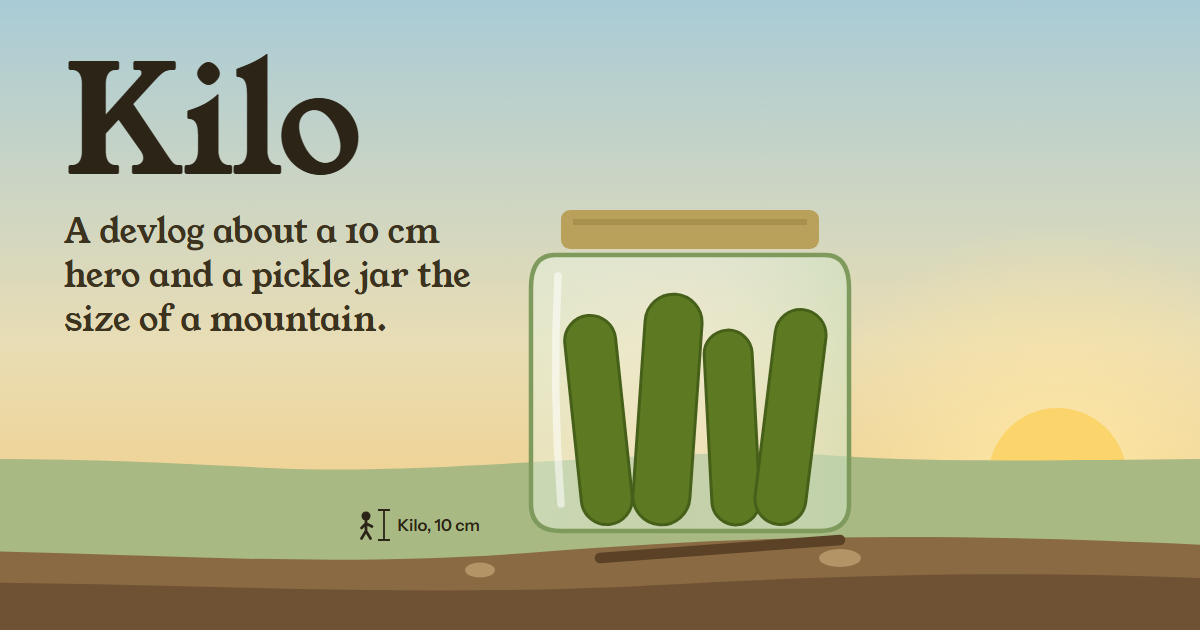
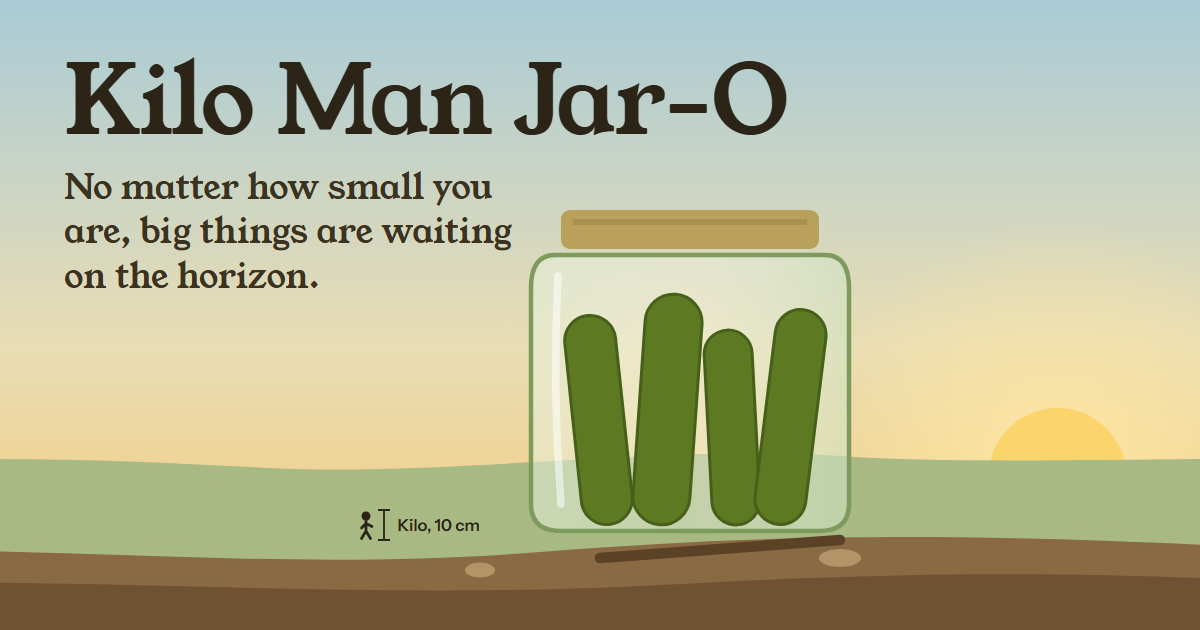
Use the working title Kilo Man Jar-O and carry the 'small hero, big horizon' theme

Changed region(s): [[0.0308, 0.0905, 0.6783, 0.5429]]

diff --git a/assets/css/kilo.css b/assets/css/kilo.css
@@ -59,14 +59,14 @@ a:hover { text-decoration-thickness: 2px; }
 }
 .wordmark {
   display: inline-block;
-  font: 400 clamp(3.5rem, 11vw, 7.5rem)/0.9 var(--serif);
+  font: 400 clamp(2.4rem, 8.5vw, 5.75rem)/0.95 var(--serif);
   color: #2B2417;
   text-decoration: none;
   letter-spacing: -0.02em;
 }
-.is-inner .wordmark { font-size: 2.75rem; }
+.is-inner .wordmark { font-size: 2.25rem; }
 .tagline {
-  max-width: 22rem; margin: 0.75rem 0 0;
+  max-width: 24rem; margin: 0.75rem 0 0;
   font: 400 clamp(1rem, 2.2vw, 1.25rem)/1.4 var(--serif);
   color: #3B321F;
 }
@@ -128,7 +128,7 @@ h1 { font-size: clamp(2rem, 6vw, 2.75rem); margin: 0 0 1.25rem; }
   .tagline { max-width: 10.5rem; font-size: 0.95rem; }
   .is-home .garden { width: 125%; } /* nudges the jar right, clear of the tagline */
   .is-inner .masthead { height: 120px; }
-  .is-inner .wordmark { font-size: 2.25rem; }
+  .is-inner .wordmark { font-size: 1.6rem; }
 }
 
 /* ---- Design pass: progress board, post meta, figures, quirk. ---- */
@@ -198,3 +198,4 @@ h1 { font-size: clamp(2rem, 6vw, 2.75rem); margin: 0 0 1.25rem; }
   .lane, .post-nav a { transition: transform 0.15s ease, box-shadow 0.15s ease; }
   .lane:hover { transform: rotate(0deg) translateY(-2px); }
 }
+.nowrap { white-space: nowrap; }

diff --git a/_includes/social.html b/_includes/social.html
@@ -2,7 +2,7 @@
 {%- if page.excerpt -%}{%- assign meta_desc = page.excerpt | strip_html | strip_newlines | truncate: 160 -%}{%- else -%}{%- assign meta_desc = site.description -%}{%- endif -%}
 {%- if page.title and page.url != "/" -%}{%- assign meta_title = page.title -%}{%- else -%}{%- assign meta_title = site.title -%}{%- endif -%}
 {%- assign meta_image = page.image | default: "/assets/img/social-card.png" -%}
-{%- assign meta_image_alt = page.image_alt | default: "The Kilo garden: a tiny 10 cm hero on a dirt trail in front of a pickle jar the size of a mountain." -%}
+{%- assign meta_image_alt = page.image_alt | default: "The Kilo Man Jar-O garden: a tiny 10 cm hero on a dirt trail in front of a pickle jar the size of a mountain." -%}
   <link rel="canonical" href="{{ page.url | absolute_url }}">
   <meta property="og:site_name" content="{{ site.title }}">
   <meta property="og:title" content="{{ meta_title | escape }}">

diff --git a/_layouts/default.html b/_layouts/default.html
@@ -18,7 +18,7 @@
   <header class="masthead">
     {% include garden.html %}
     <div class="masthead-text">
-      <a class="wordmark" href="{{ "/" | relative_url }}">Kilo</a>
+      <a class="wordmark" href="{{ "/" | relative_url }}">Kilo Man <span class="nowrap">Jar-O</span></a>
       {% if page.layout == 'home' %}<p class="tagline">{{ site.tagline }}</p>{% endif %}
     </div>
   </header>
@@ -27,7 +27,7 @@
     {{ content }}
   </main>
   <footer class="site-foot wrap">
-    <p>Notes from the garden, one checkpoint at a time. <a href="{{ "/feed.xml" | relative_url }}">Follow with RSS</a></p>
+    <p>Notes from the garden, one small step at a time. <a href="{{ "/feed.xml" | relative_url }}">Follow with RSS</a></p>
   </footer>
 </body>
 </html>

diff --git a/_includes/progress.html b/_includes/progress.html
@@ -1,6 +1,6 @@
 <section class="board breakout" aria-labelledby="board-title">
   <div class="board-head">
-    <h2 id="board-title" class="section-title">Where Kilo is at</h2>
+    <h2 id="board-title" class="section-title">How the journey is going</h2>
     <p class="board-date">Updated {{ site.data.progress.updated | date: "%B %-d, %Y" }}</p>
   </div>
   <div class="lanes">

diff --git a/_posts/2026-10-20-the-journey-so-far.md b/_posts/2026-10-20-the-journey-so-far.md
@@ -7,14 +7,14 @@ image: /assets/img/kilo-backyard-trail.webp
 image_alt: "A stone trail between low-poly trees and grey boulders, leading toward a giant pickle jar."
 ---
 
-**TL;DR:** Kilo went from a blank project to a playable run (a tiny hero, an ant trail and a pickle jar at the finish) in under 15 hours.
+**TL;DR:** Kilo Man Jar-O went from a blank project to a playable run (a tiny hero, an ant trail and a pickle jar at the finish) in under 15 hours.
 {: .tldr}
 
-Hi! Welcome to the first devlog for **Kilo** (working title).
+Hi! Welcome to the first devlog for **Kilo Man Jar-O** (working title).
 
 ## The idea
 
-Kilo is about a tiny hero. He's 10 centimeters tall and weighs about a kilogram, and he runs through a giant garden toward a pickle jar the size of a mountain. Blades of grass tower like trees. Pebbles are boulders. A barn on the horizon is over a kilometer wide from where he stands. The goal is a game that feels calm and full of wonder, even while you're dodging flying pickles.
+Kilo Man Jar-O is about a tiny hero named Kilo. He's 10 centimeters tall and weighs about a kilogram, and he runs through a giant garden toward a pickle jar the size of a mountain. Blades of grass tower like trees. Pebbles are boulders. A barn on the horizon is over a kilometer wide from where he stands. The goal is a game that feels calm and full of wonder, even while you're dodging flying pickles.
 
 ## How it plays
 
@@ -22,7 +22,7 @@ You run, jump and climb your way along a winding trail. You read what's ahead an
 
 ## How it's being made
 
-This is a small project with an unusual crew. I'm the designer and play-tester, and I make the final call on everything. Alongside me are two AI helpers. One of them works directly inside Unreal Engine 5.8, building Blueprints, materials and level pieces. The other plans each step, checks the work, keeps the project's history safe, and measures performance. While I'm at my day job, it keeps working and pings my phone whenever it needs a human decision. (More on that in [How Kilo is made]({{ "/how-kilo-is-made/" | relative_url }}).)
+This is a small project with an unusual crew. I'm the designer and play-tester, and I make the final call on everything. Alongside me are two AI helpers. One of them works directly inside Unreal Engine 5.8, building Blueprints, materials and level pieces. The other plans each step, checks the work, keeps the project's history safe, and measures performance. While I'm at my day job, it keeps working and pings my phone whenever it needs a human decision. (More on that in [How it's made]({{ "/how-kilo-is-made/" | relative_url }}).)
 
 ## What we've built so far
 
@@ -49,7 +49,7 @@ These are quick captures from inside the editor, so they're rough around the edg
 
 ## Honest corner
 
-I'm building on a laptop with integrated graphics, on purpose. If Kilo runs well here, it should run well on most people's PCs. Right now it doesn't hit that bar yet at max settings, and a performance pass is on the list.
+I'm building on a laptop with integrated graphics, on purpose. If the game runs well here, it should run well on most people's PCs. Right now it doesn't hit that bar yet at max settings, and a performance pass is on the list.
 
 ## Next up
 
@@ -62,4 +62,4 @@ I'm building on a laptop with integrated graphics, on purpose. If Kilo runs well
 
 Thanks for following along. There's a lot more pickle to come.
 
-*Kilo is a working title. Everything shown is work in progress.*
+*Kilo Man Jar-O is a working title. Everything shown is work in progress.*

diff --git a/about.md b/about.md
@@ -4,12 +4,14 @@ title: About
 permalink: /about/
 ---
 
-**Kilo** (working title) is about a tiny hero. He's 10 centimeters tall and weighs about a kilogram, and he runs through a giant garden toward a pickle jar the size of a mountain.
+**Kilo Man Jar-O** (working title) is about a tiny hero named Kilo. He's 10 centimeters tall and weighs about a kilogram, and he runs through a giant garden toward a pickle jar the size of a mountain.
 
 Blades of grass tower like trees. Pebbles are boulders. A barn on the horizon is over a kilometer wide from where he stands.
 
 You run, jump and climb your way along a winding trail, reading what's ahead and picking your route. A run to the jar takes about three minutes, and if you fall off, you're back at the start in under two seconds.
 
-The goal is a game that feels calm and full of wonder, even while you're dodging flying pickles.
+At its heart, it's a game about one simple idea: it doesn't matter how small you are. Big, wonderful things are waiting on the horizon, and you can reach them one step at a time.
 
-*Kilo is a working title. Everything shown is work in progress.*
+The goal is a game that feels calm, cozy and full of wonder, even when the garden gets a little wild.
+
+*Kilo Man Jar-O is a working title. Everything shown is work in progress.*

diff --git a/index.md b/index.md
@@ -3,6 +3,6 @@ layout: home
 title: Devlog
 ---
 
-Kilo is a game about a tiny hero, 10 centimeters tall, running through a giant garden toward a pickle jar the size of a mountain. This is where the making of it gets shared, one checkpoint at a time.
+**Kilo Man Jar-O** (working title) is a game about Kilo, a tiny hero just 10 centimeters tall, crossing a giant garden toward a pickle jar the size of a mountain. It's a story about how being small never stops you from reaching something big. This is where the making of it gets shared, one small step at a time.
 
 Want updates in your reader? Use the [RSS feed]({{ "/feed.xml" | relative_url }}).

diff --git a/how-kilo-is-made.md b/how-kilo-is-made.md
@@ -1,10 +1,10 @@
 ---
 layout: page
-title: How Kilo is made
+title: How it's made
 permalink: /how-kilo-is-made/
 ---
 
-Kilo is openly built with AI help, and that's part of the story.
+Kilo Man Jar-O is openly built with AI help, and that's part of the story.
 
 - **One designer.** I design and play-test the game, and I make the final call on everything.
 - **Two AI helpers.** One works directly inside Unreal Engine, building Blueprints, materials and level pieces. The other plans each step, checks the work, keeps the project's history safe, and measures performance.

diff --git a/kickstarter.md b/kickstarter.md
@@ -4,6 +4,6 @@ title: Kickstarter
 permalink: /kickstarter/
 ---
 
-A Kickstarter campaign for Kilo is planned. The link will appear here when it's ready.
+A Kickstarter campaign for Kilo Man Jar-O is planned. The link will appear here when it's ready.
 
 Until then, the best way to follow along is this devlog and its [RSS feed]({{ "/feed.xml" | relative_url }}).

diff --git a/README.md b/README.md
@@ -1,6 +1,6 @@
 # Kilo Man Jar-O Devlog
 
-Source for the Kilo (working title) development blog, published with GitHub Pages.
+Source for the Kilo Man Jar-O (working title) development blog, published with GitHub Pages.
 
 - Posts live in `_posts/` as `YYYY-MM-DD-title.md`.
 - Images go in `assets/img/` (WebP or JPG, 300 KB or less each).

diff --git a/credits.md b/credits.md
@@ -4,7 +4,7 @@ title: Credits
 permalink: /credits/
 ---
 
-Kilo is built with help from these tools and assets. Thank you!
+Kilo Man Jar-O is built with help from these tools and assets. Thank you!
 
 - **Unreal Engine** by Epic Games
 - **Manny and Quinn mannequins** by Epic Games, standing in for the hero until Kilo gets his own model

diff --git a/_posts/2026-10-20-pickles-now-hurt.md b/_posts/2026-10-20-pickles-now-hurt.md
@@ -50,4 +50,4 @@ To keep it light on modest PCs, the landscape doesn't use any texture images. It
 
 Thanks for following along. Mind the pickles.
 
-*Kilo is a working title. Everything shown is work in progress.*
+*Kilo Man Jar-O is a working title. Everything shown is work in progress.*
